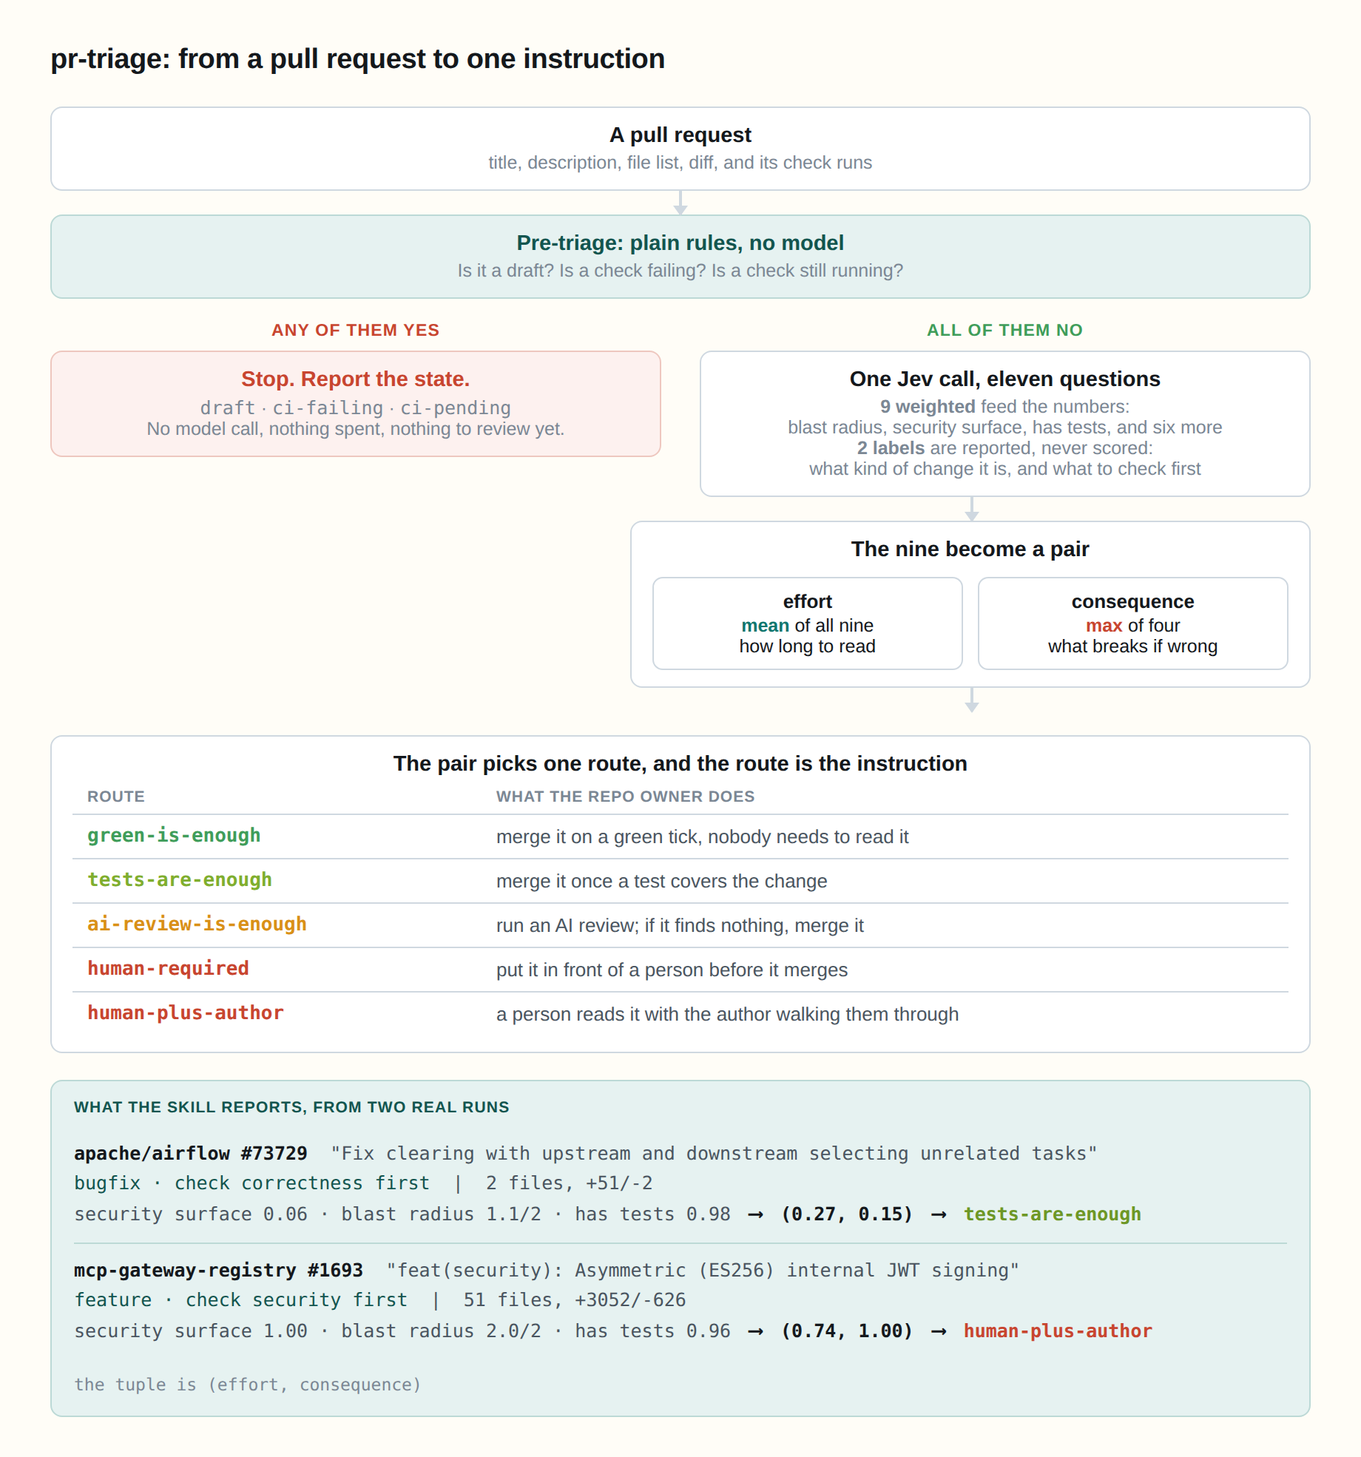
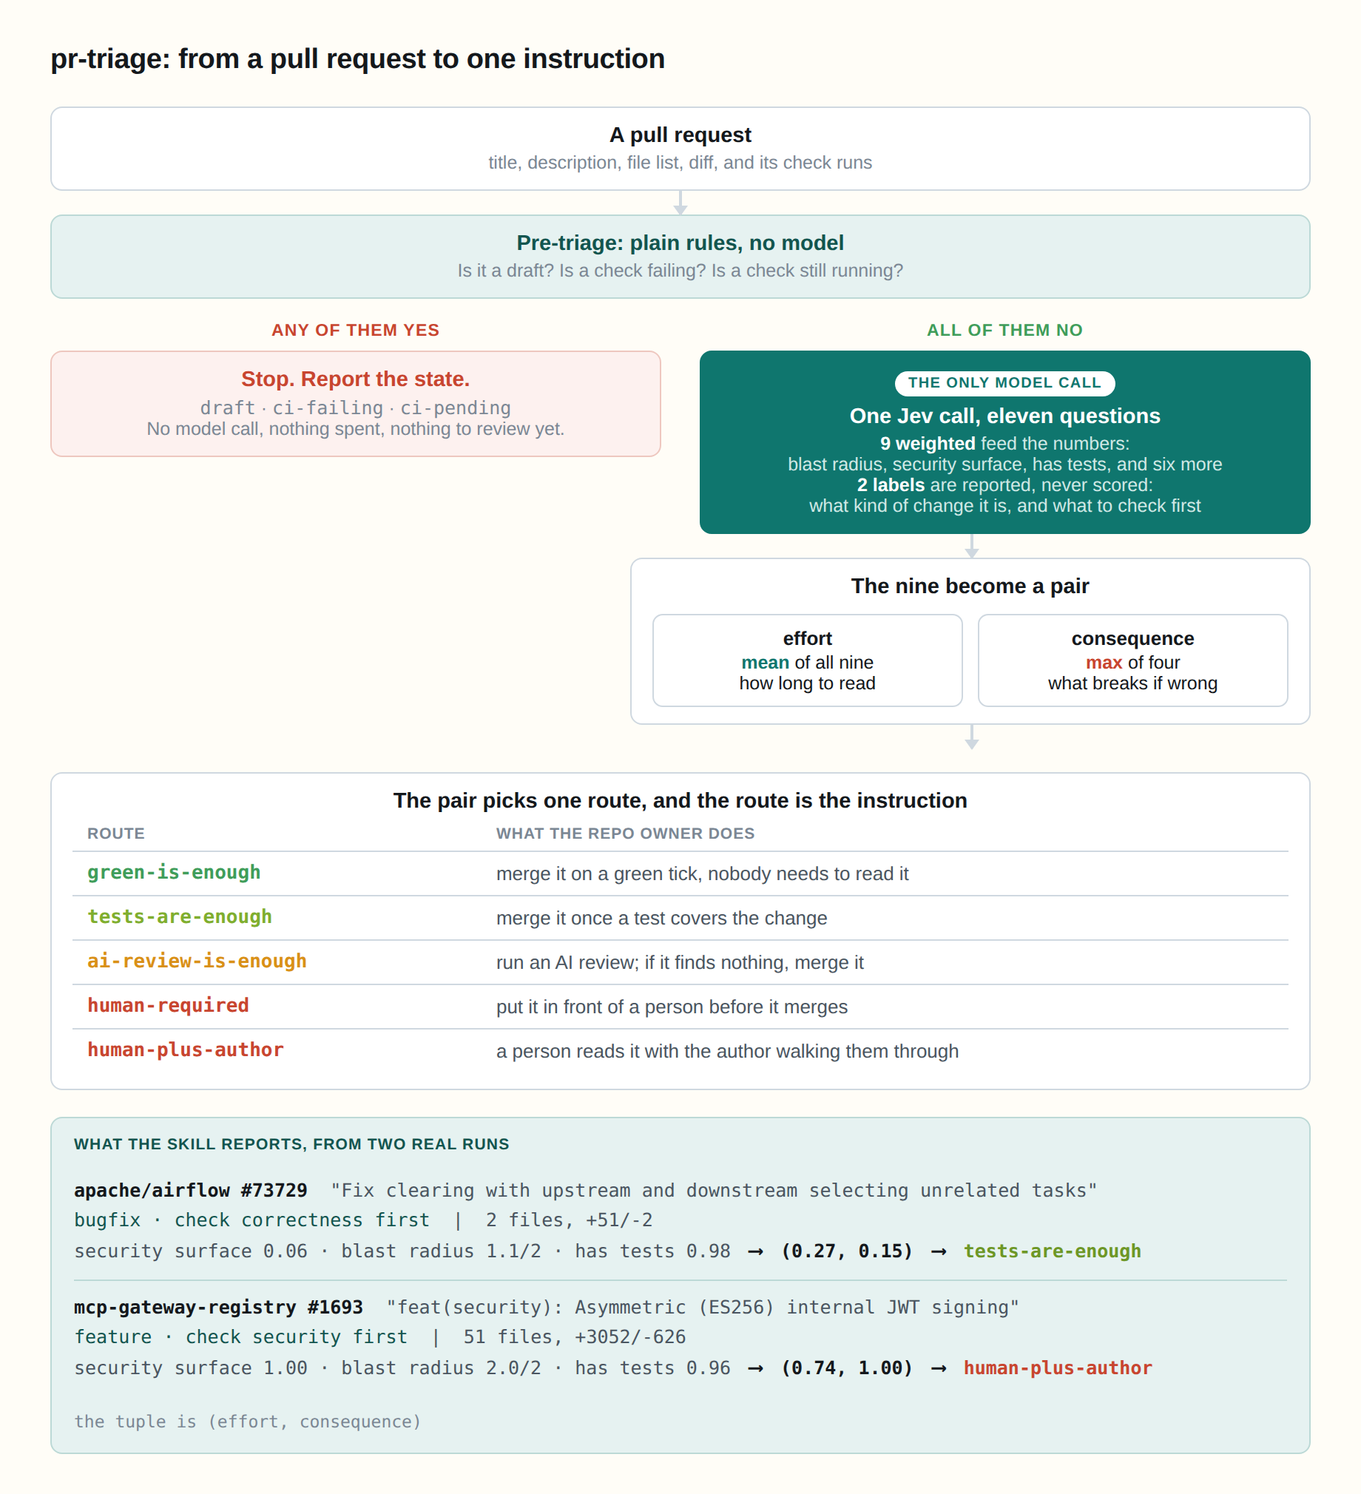
Make both READMEs accurate to the routing design, and run the writing pass
Accuracy first, because the prose had drifted from the code.

The worked example cited airflow #73698, a pull request the committed report
no longer holds: the dataset was re-fetched, the eighteen most recent open
ones changed, and it dropped out. None of its nine rows could be checked
against anything in the repo. Rebuilt on #73741, which is in the report and
teaches the point better: "Improve DAG tag length validation error", two
files, eleven added lines, and it still needs a person because a length check
on user input is input validation and security_surface came back 0.97.
Averaging the nine puts it at 0.40, mid-queue, where nobody looks twice.

That rebuild exposed a second gap. The nine rounded rows sum to 0.3969 while
the report records 0.3970, because the report rounds the total rather than
adding rounded rows. The table shows 0.3969 and one clause explains it, so a
reader adding the column gets what is printed.

go/README.md had no mention of pre-triage, though the binary does it. It now
carries the states table, the shared-failure rule, the ten-of-eighteen
figure, state_counts among the outputs, and a corrected drift line: effort
moves about 0.03 and consequence about 0.07, with the 16-of-18 parity result.

Smaller fixes: the sample README said twenty-six pull requests want a token,
left from the gateway example, and one pull request now costs three GitHub
calls rather than two since the checks call landed. It pointed at
[…]

Changed region(s): [[0.031, 0.4645, 0.9603, 0.9599], [0.031, 0.031, 0.9603, 0.4645], [0.031, 0.031, 0.2168, 0.0619]]

diff --git a/samples/pr-triage/assets/flow.html b/samples/pr-triage/assets/flow.html
@@ -55,6 +55,18 @@
   .stop { background: var(--stop-soft); border-color: #eec7bf; }
   .stop .t { color: var(--stop); }
 
+  /* The one box where a model runs. Everything else on this page is plain code,
+     and the fill says so at a glance. */
+  .jev { background: var(--accent); border-color: var(--accent); }
+  .jev .t { color: #fff; }
+  .jev .s { color: #cfe8e5; }
+  .jev .s b { color: #fff; }
+  .badge {
+    display: inline-block; background: #fff; color: var(--accent);
+    font-size: 10px; font-weight: 800; letter-spacing: 0.7px; text-transform: uppercase;
+    border-radius: 999px; padding: 3px 9px; margin-bottom: 6px;
+  }
+
   .pair { display: grid; grid-template-columns: 1fr 1fr; gap: 10px; margin-top: 10px; }
   .pair div { border: 1px solid var(--line); border-radius: 7px; padding: 8px 10px; font-size: 12.5px; }
   .pair b { display: block; font-size: 13px; margin-bottom: 2px; }
@@ -118,7 +130,8 @@
   </div>
   <div>
     <div class="leg leg-go">all of them no</div>
-    <div class="box">
+    <div class="box jev">
+      <div class="badge">the only model call</div>
       <div class="t">One Jev call, eleven questions</div>
       <div class="s"><b>9 weighted</b> feed the numbers:<br>
         blast radius, security surface, has tests, and six more<br>

diff --git a/samples/pr-triage/README.md b/samples/pr-triage/README.md
@@ -16,7 +16,7 @@ Before any of that, a pull request has to be worth reading. One call to the chec
 
 `ci-failing` is a fact rather than a verdict. On the eighteen airflow pull requests below, eight were failing and **five of those failed only on a check that also fails on unrelated pull requests**, including a boto3 version bump that cannot break Postgres serialization. That is the check being broken, not each change breaking it, and the output says so. Detecting it costs nothing extra, because the names are already in the dataset.
 
-Skipping those states took ten of eighteen out of the queue before a single question was asked.
+Those three states took ten of eighteen out of the queue before Jev saw a single one.
 
 The pair picks a route, and the route answers one question: **what would be enough to merge this change?** Enough for a green tick to settle it, or enough that it wants a test, an AI review, or a person.
 
@@ -31,6 +31,20 @@ None of them says merge it now, and none of them merges anything. TypeSafe repor
 | `human-plus-author` | a person reads it line by line, with the author walking them through |
 
 Consequence sets the floor and effort can only raise it. Of those eighteen, 8 were reviewable and cost about two tenths of a cent to route.
+
+## Why a small model routes and a large one reviews
+
+Of the eighteen pull requests below, a frontier review is the deciding evidence on **one**. Ten never reach a model at all, removed by plain rules about drafts and check runs. Jev reads the remaining eight, at 3,039 input tokens and 164 ms each.
+
+Three things produce that funnel.
+
+**The cheapest call is the one nobody makes.** Pre-triage is `if` statements over the checks API. It took ten of eighteen out of the queue before any model ran, and no model could have done it, because no model knows whether CI passed.
+
+**Deciding what a human sees is itself a model call, and it should be the cheap one.** That decision is a closed question with a small answer: eleven judgements, two numbers, one route. A frontier model can make it. It would read the same diff, return the same eleven answers, and charge frontier prices for the privilege. Routing one pull request costs about 3,000 input tokens whoever does it, which is $0.00013 at TypeSafe's $0.042 per million, published September 2026. Divide your own model's input price by 0.042 and that is the multiple you pay to have the expensive model make the same decision.
+
+**The expensive model then does the job only it can do.** Reading code for defects needs a model that can read code. On this queue a review is the deciding evidence on one pull request in eighteen, so that is how often it runs. Latency follows the same shape: 164 ms a pull request to route, so 710 of them took two minutes.
+
+One condition on all of it. The saving is real only while the cheap routes are right. A pull request sent to `green-is-enough` that needed reading is false economy, however little it cost, which is why the number to measure is precision on that route rather than accuracy across the queue.
 
 ## What it asks
 
@@ -77,7 +91,7 @@ uv run pr_triage.py --dataset data/owner-repo-open-all.json
 uv run pr_triage.py --dataset data/owner-repo-open-all.json --explain 1693
 ```
 
-`fetch_prs.py` needs a GitHub token and no Jev key. It reads `GITHUB_TOKEN` or `GH_TOKEN`, and falls back to `gh auth token`. Unauthenticated callers get sixty requests an hour and one pull request costs two of them, so twenty-six pull requests want a token.
+`fetch_prs.py` needs a GitHub token and no Jev key. It reads `GITHUB_TOKEN` or `GH_TOKEN`, and falls back to `gh auth token`. Unauthenticated callers get sixty requests an hour, and one pull request costs three of them: the listing, its files, and its check runs. Any real queue wants a token.
 
 `pr_triage.py` needs a Jev key in `TYPESAFE_API_KEY`, from the environment or from `.env` beside the sample or at the repo root.
 
@@ -85,7 +99,7 @@ uv run pr_triage.py --dataset data/owner-repo-open-all.json --explain 1693
 
 [`go/`](go/) holds a Go port that compiles both halves into one static binary, which is what the skill installs and what a CI runner wants. It works against github.com and a GitHub Enterprise Server host.
 
-The Python stays canonical. `go/questions.yml` is a copy, `build.sh` refreshes it before every build, and `payload_test.go` fails when the two drift, so the two tools cannot score one pull request differently in silence.
+The Python stays canonical. `go/questions.yml` is a copy, `build.sh` refreshes it before every build, and `payload_test.go` fails when the two drift, so the two tools cannot disagree about one pull request in silence.
 
 
 ## Install it as a Claude Code skill
@@ -120,7 +134,7 @@ Then start a new Claude Code session and ask for a triage in your own words:
 
 The skill picks the flags, runs the binary, reads the report and tells you which pull requests need an hour and which clear on a glance. It writes a JSON report and a markdown one you can paste into an issue.
 
-For CI rather than a conversation, [`go/README.md`](go/README.md) covers the binary on its own, including `-fail-on-tier` for failing a job and the three ways to point it at a GitHub Enterprise Server host.
+For CI rather than a conversation, [`go/README.md`](go/README.md) covers the binary on its own, including `-fail-on-route` for failing a job and the three ways to point it at a GitHub Enterprise Server host.
 
 ## What it prints
 
@@ -184,7 +198,7 @@ The eight that were reviewable:
 | #73722 | 1     | +2/-1    | docs       | 0.20 | 0.04 | green-is-enough             | Clarify max_db_retries doc wording to avoid off-by-one ... |
 ```
 
-`Load` is effort and `Cons` is consequence. A load marked `(size)` was raised by the file and line counts. Either number marked `(on a cut)` sits within 0.02 of a threshold, which is about how far repeat calls move it, so read it as either side.
+`Load` is effort and `Cons` is consequence. A load marked `(size)` means the file and line counts raised it. Either number marked `(on a cut)` sits within 0.02 of a threshold, which is about how far repeat calls move it, so read it as either side.
 
 Then the same pull requests grouped by route, cheapest evidence last:
 
@@ -221,32 +235,34 @@ Every run writes two reports into [data/](data/). The JSON one holds each answer
 
 ### One pull request, from eleven answers to one route
 
-Airflow #73698 binds the AWS auth manager's SAML response to the browser that started the login: 8 files, +626/-73, and Jev read 88% of the diff. The nine weighted answers, with the four that also feed consequence marked **(c)**:
+Airflow #73741 improves the error a DAG tag length check raises. Two files, +11/-3, and Jev read all of the diff. The nine weighted answers, heaviest contribution first, with the four that also feed consequence marked **(c)**:
 
 | Question | Jev returned | Weight | Credit | Adds to effort | Feeds consequence |
 | --- | --- | --- | --- | --- | --- |
-| `security_surface` **(c)** | 0.99 | 0.15 | 0.99 | 0.1485 | **0.99** |
-| `design_decisions` | 2.00 / 2 | 0.14 | 1.00 | 0.1400 | |
-| `mechanical` (inverted) | 0.29 | 0.12 | 0.71 | 0.0852 | |
-| `blast_radius` **(c)** | 1.02 / 2 | 0.15 | 0.51 | 0.0765 | 0.02 |
-| `breaking_change` **(c)** | 0.69 | 0.11 | 0.69 | 0.0759 | 0.69 |
-| `infra_surface` **(c)** | 0.70 | 0.08 | 0.70 | 0.0560 | 0.70 |
-| `scope_creep` | 0.48 | 0.09 | 0.48 | 0.0432 | |
-| `has_tests` (inverted) | 0.95 | 0.08 | 0.05 | 0.0040 | |
-| `description_quality` (inverted) | 1.98 / 2 | 0.08 | 0.01 | 0.0008 | |
-| | | **1.00** | | **0.6301** | **max 0.99** |
+| `security_surface` **(c)** | 0.97 | 0.15 | 0.97 | 0.1455 | **0.97** |
+| `blast_radius` **(c)** | 1.21 / 2 | 0.15 | 0.60 | 0.0907 | 0.22 |
+| `mechanical` (inverted) | 0.39 | 0.12 | 0.61 | 0.0732 | |
+| `design_decisions` | 0.98 / 2 | 0.14 | 0.49 | 0.0686 | |
+| `breaking_change` **(c)** | 0.07 | 0.11 | 0.07 | 0.0077 | 0.07 |
+| `scope_creep` | 0.08 | 0.09 | 0.08 | 0.0072 | |
+| `has_tests` (inverted) | 0.97 | 0.08 | 0.03 | 0.0024 | |
+| `infra_surface` **(c)** | 0.02 | 0.08 | 0.02 | 0.0016 | 0.02 |
+| `description_quality` (inverted) | 2.00 / 2 | 0.08 | 0.00 | 0.0000 | |
+| | | **1.00** | | **0.3969** | **max 0.97** |
 
-Effort is that column added up: 0.6301, a long read. Consequence is the max of the four marked entries: 0.99, set by `security_surface`. Both clear their top cut, so the route is `human-plus-author`, decided by both axes.
+Effort is that column added up: 0.3969, a short read of two files. The report records 0.3970, because it rounds the total rather than adding up nine rounded rows. Consequence is the max of the four marked entries: 0.97, set by `security_surface`. Effort clears no raise, consequence clears its top cut, so the route is `human-required` and the consequence axis decided it alone.
 
-Two rows show why the axes need different arithmetic. `has_tests` came back 0.95, so the change ships tests, and inverted that contributes almost nothing to effort: a tested change is quicker to review. It does not touch consequence at all, because tests are evidence against regression and not against an authentication mistake.
+The title reads like an error-message tweak, and the diff is eleven added lines. It still needs a person, because a length check on user input is input validation, and `security_surface` came back 0.97. That is the case a single blended score buries: averaging the nine puts this at 0.40, in the middle of the queue, where nobody would look twice.
 
-`blast_radius` is the sharper case. It scored 1.02 out of 2, which is 0.51 of credit toward effort, a middling read. But its probability on the *top* level, "reaches shared code paths that many callers depend on", is only 0.02: Jev is confident this stays inside one module. So it contributes 0.51 to effort and 0.02 to consequence, from one answer. Reading the normalised score into consequence would have called a contained change half a catastrophe, which is the bug that made every airflow pull request look dangerous in an earlier run.
+Three rows show the axes reading one answer two ways. `blast_radius` scored 1.21 out of 2, so it contributes 0.60 of credit to effort, a fair chunk of a short read. Its probability on the top level, "reaches shared code paths that many callers depend on", is 0.22, so it contributes 0.22 to consequence and stops there. `has_tests` came back 0.97, and inverted that adds 0.0024 to effort, because a tested change is quicker to read. It feeds consequence not at all, since tests are evidence against regression and not against a validation mistake. `description_quality` at 2.00 out of 2 contributes 0.0000, which is what a thorough description earns.
+
+The run also prints the one thing that would move it: a test exercising that security surface, or a reviewer who owns the path.
 
 ## What to notice
 
-**Most of a queue is not waiting on review at all.** Of those eighteen, ten never reached Jev: one draft, eight with a failing check, one still running. The eight that were reviewable came out 2 `green-is-enough`, 3 `tests-are-enough`, 1 `ai-review-is-enough`, 2 `human-required`. The cheapest pull requests in a queue are usually the ones nobody needs to read, and the loudest are usually waiting on the build rather than on a person.
+**Ten of eighteen were waiting on a build or their author.** One draft, eight with a failing check, one still running, and none of them reached Jev. The eight that were reviewable came out 2 `green-is-enough`, 3 `tests-are-enough`, 1 `ai-review-is-enough`, 2 `human-required`. A queue hides two cheap groups: the changes nobody needs to read, and the ones stuck behind a build.
 
-**The spread is a fact about the repository, not about the thresholds.** The same cuts over 710 airflow pull requests opened in the last 100 days took 342 of them, 48%, off the human queue. Run against a repository where every change touches authentication or deployment credentials, they took none of 24, because that queue contains no low-consequence work to find. Airflow's cheap tail is its 48 docs pull requests, 20 dependency bumps and 22 test-only changes. A repository without those has no cheap tail, and a router that invented one would be wrong.
+**One set of cuts produces two different distributions.** The same cuts over 710 airflow pull requests opened in the last 100 days took 342 of them, 48%, off the human queue. Run against a repository where every change touches authentication or deployment credentials, they took none of 24, because that queue contains no low-consequence work to find. Airflow's cheap tail is its 48 docs pull requests, 20 dependency bumps and 22 test-only changes. A repository without those has no cheap tail, and a router that invented one would be wrong.
 
 **Nine files can outrank fifty-four.** #73704 changes 89 lines across 9 files and routes `human-required` at consequence 0.84, because it fixes socket leaks and adds request timeouts across providers and `security_surface` came back 0.84. #73713 changes 598 lines across 54 files and its effort is only 0.37, because `mechanical` came back 0.81 on one locale-formatting edit repeated through the UI. Size is not review cost, and neither is line count.
 
@@ -262,6 +278,6 @@ Two rows show why the axes need different arithmetic. `has_tests` came back 0.95
 
 ## Calibrate before you trust a route
 
-TypeSafe reports 67.8% accuracy on their own benchmark, published September 2026. A router can live with that, because its errors are bounded: send something to a human who did not need to look and you waste twenty minutes, while CI, the tests and an AI review all still stand behind a cheaper route. A merge decision cannot live with it, because nothing stands behind that.
+TypeSafe reports 67.8% accuracy on their own benchmark, published September 2026. A router survives that, because a routing mistake costs little: send something to a human who did not need to look and you waste twenty minutes, while CI, the tests and an AI review all still stand behind a cheaper route. A merge decision cannot live with it, because nothing stands behind that.
 
 So the number to measure is not accuracy across the queue. It is **precision on `green-is-enough`**, where a false "this is safe" is the only expensive mistake the tool can make. Replay fifty pull requests your team already merged, count how many the sample would have sent to `green-is-enough`, and check how many of those were later reverted or hot-fixed. Move `CONSEQUENCE_FLOORS` until that count is zero. [jevcal](https://github.com/abhixhek/jevcal) turns that comparison into a measurement.

diff --git a/samples/pr-triage/go/README.md b/samples/pr-triage/go/README.md
@@ -60,12 +60,26 @@ The progress line says which API it chose, so a wrong guess shows up before any 
 repository acme/widgets through https://ghe.example.com/api/v3
 ```
 
+## It stops before Jev on anything not reviewable
+
+One call to the checks API per pull request settles three states, and none of them spends a question:
+
+| State | Means | Waiting on |
+| --- | --- | --- |
+| `ci-failing` | a check concluded failure, timed out, or wants action | the checks, or the branch |
+| `ci-pending` | a check is still running | nobody, come back later |
+| `draft` | the author marked it draft | the author, who is not asking |
+
+`ci-failing` states a fact and never judges the author. A check name that fails on several unrelated pull requests is the check being broken rather than each change breaking it, so the binary counts the names across the queue and says which failures belong to the checks. That costs no extra call, because the names are already in the dataset.
+
+On the eighteen most recent open `apache/airflow` pull requests this skipped ten.
+
 ## What it writes
 
 Two files per run, into `-out` (default `./data`), plus the dataset when it fetched one:
 
-- `<repo>-<selector>-triage.json`, every answer as Jev sent it, beside the credit, the tier and the size floor
-- `<repo>-<selector>-triage.md`, the table and the tier sections, ready to paste into a pull request
+- `<repo>-<selector>-triage.json`, every answer as Jev sent it, beside the credit, the effort, the consequence, the route and the size floor, with `route_counts` and `state_counts` rolling the queue up so a job reads its shape without walking every entry
+- `<repo>-<selector>-triage.md`, the table and the route sections, ready to paste into a pull request
 
 Both match the Python sample's reports field for field, and the dataset matches too, so a dataset or report written by either tool reads in the other.
 
@@ -77,7 +91,7 @@ Both match the Python sample's reports field for field, and the dataset matches 
 pr-triage owner/repo -all -fail-on-route human-required -quiet
 ```
 
-`-fail-on-tier` does the same on the effort tier, for a job that cares about review time rather than about what evidence is required.
+`-fail-on-tier` does the same on the effort tier, for a job that cares about review time rather than about what a merge would need.
 
 | Exit | Meaning |
 | --- | --- |
@@ -109,7 +123,7 @@ go build -o pr-triage . && ./pr-triage -version
 ../questions.yml and the embedded copy differ: run ./build.sh, which copies the canonical file in
 ```
 
-Without that test the two tools would score the same pull request differently, for a reason nobody could see from either side.
+Without that test the two tools would disagree about one pull request, for a reason nobody could see from either side.
 
 `-questions path.yml` points at a payload on disk instead, which is how you try a different weight without rebuilding.
 
@@ -117,6 +131,6 @@ Without that test the two tools would score the same pull request differently, f
 
 Nothing in the judgment: the same eleven questions, the same weights, the same two axes, the same route cuts, the same 0.02 deadband on both, and the same size floor. Two differences worth knowing:
 
-**The legend is read loosely.** Jev echoes each rubric level back in a `legend`, and one level in the current payload arrives as an object rather than a string, because `- None: some text` is YAML for a mapping. The Go side accepts any value there, so a released binary keeps working against an older payload.
+**The legend takes any value.** Jev echoes each rubric level back in a `legend`, and one level in the current payload arrives as an object rather than a string, because `- None: some text` is YAML for a mapping. The Go side accepts any value there, so a released binary keeps working against an older payload.
 
-**Repeat runs move a load by about 0.02**, the same as the Python. A tier within the deadband of a cut prints `(on a cut)` rather than picking a side, so two runs of one queue agree with each other.
+**Repeat runs move an effort by about 0.03 and a consequence by about 0.07**, the same as the Python. Either number within 0.02 of a cut prints `(on a cut)` rather than picking a side, so two runs of one queue do not contradict each other. Running both implementations over one dataset agreed on 16 of 18 routes, and both disagreements sat on a cut.
